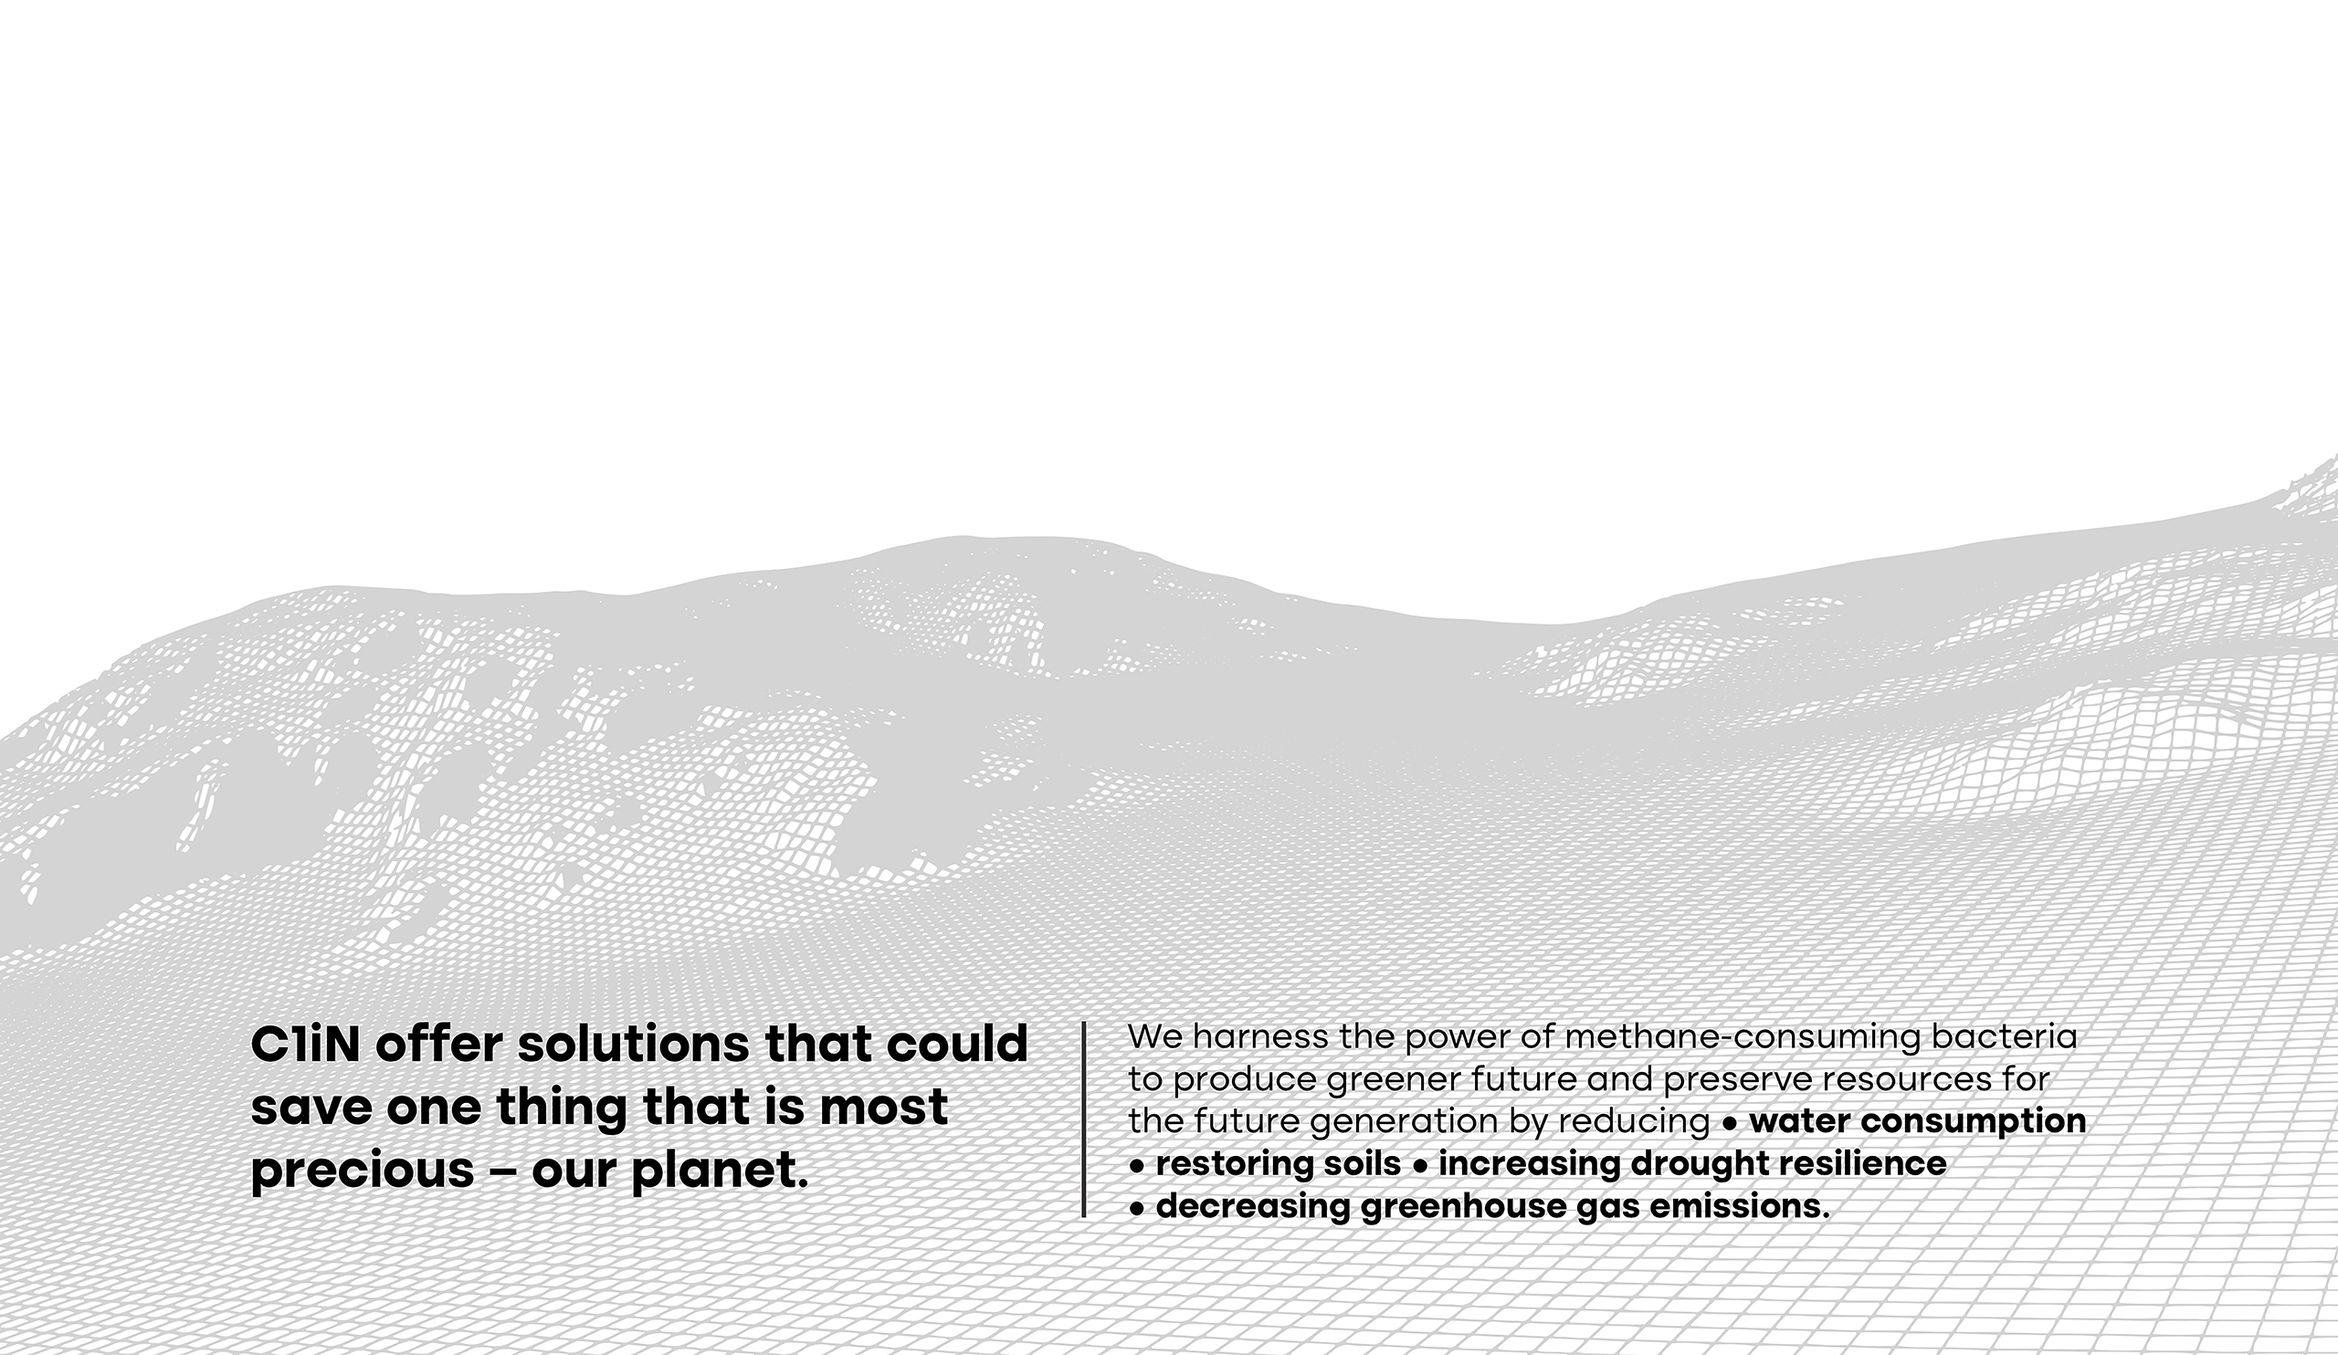
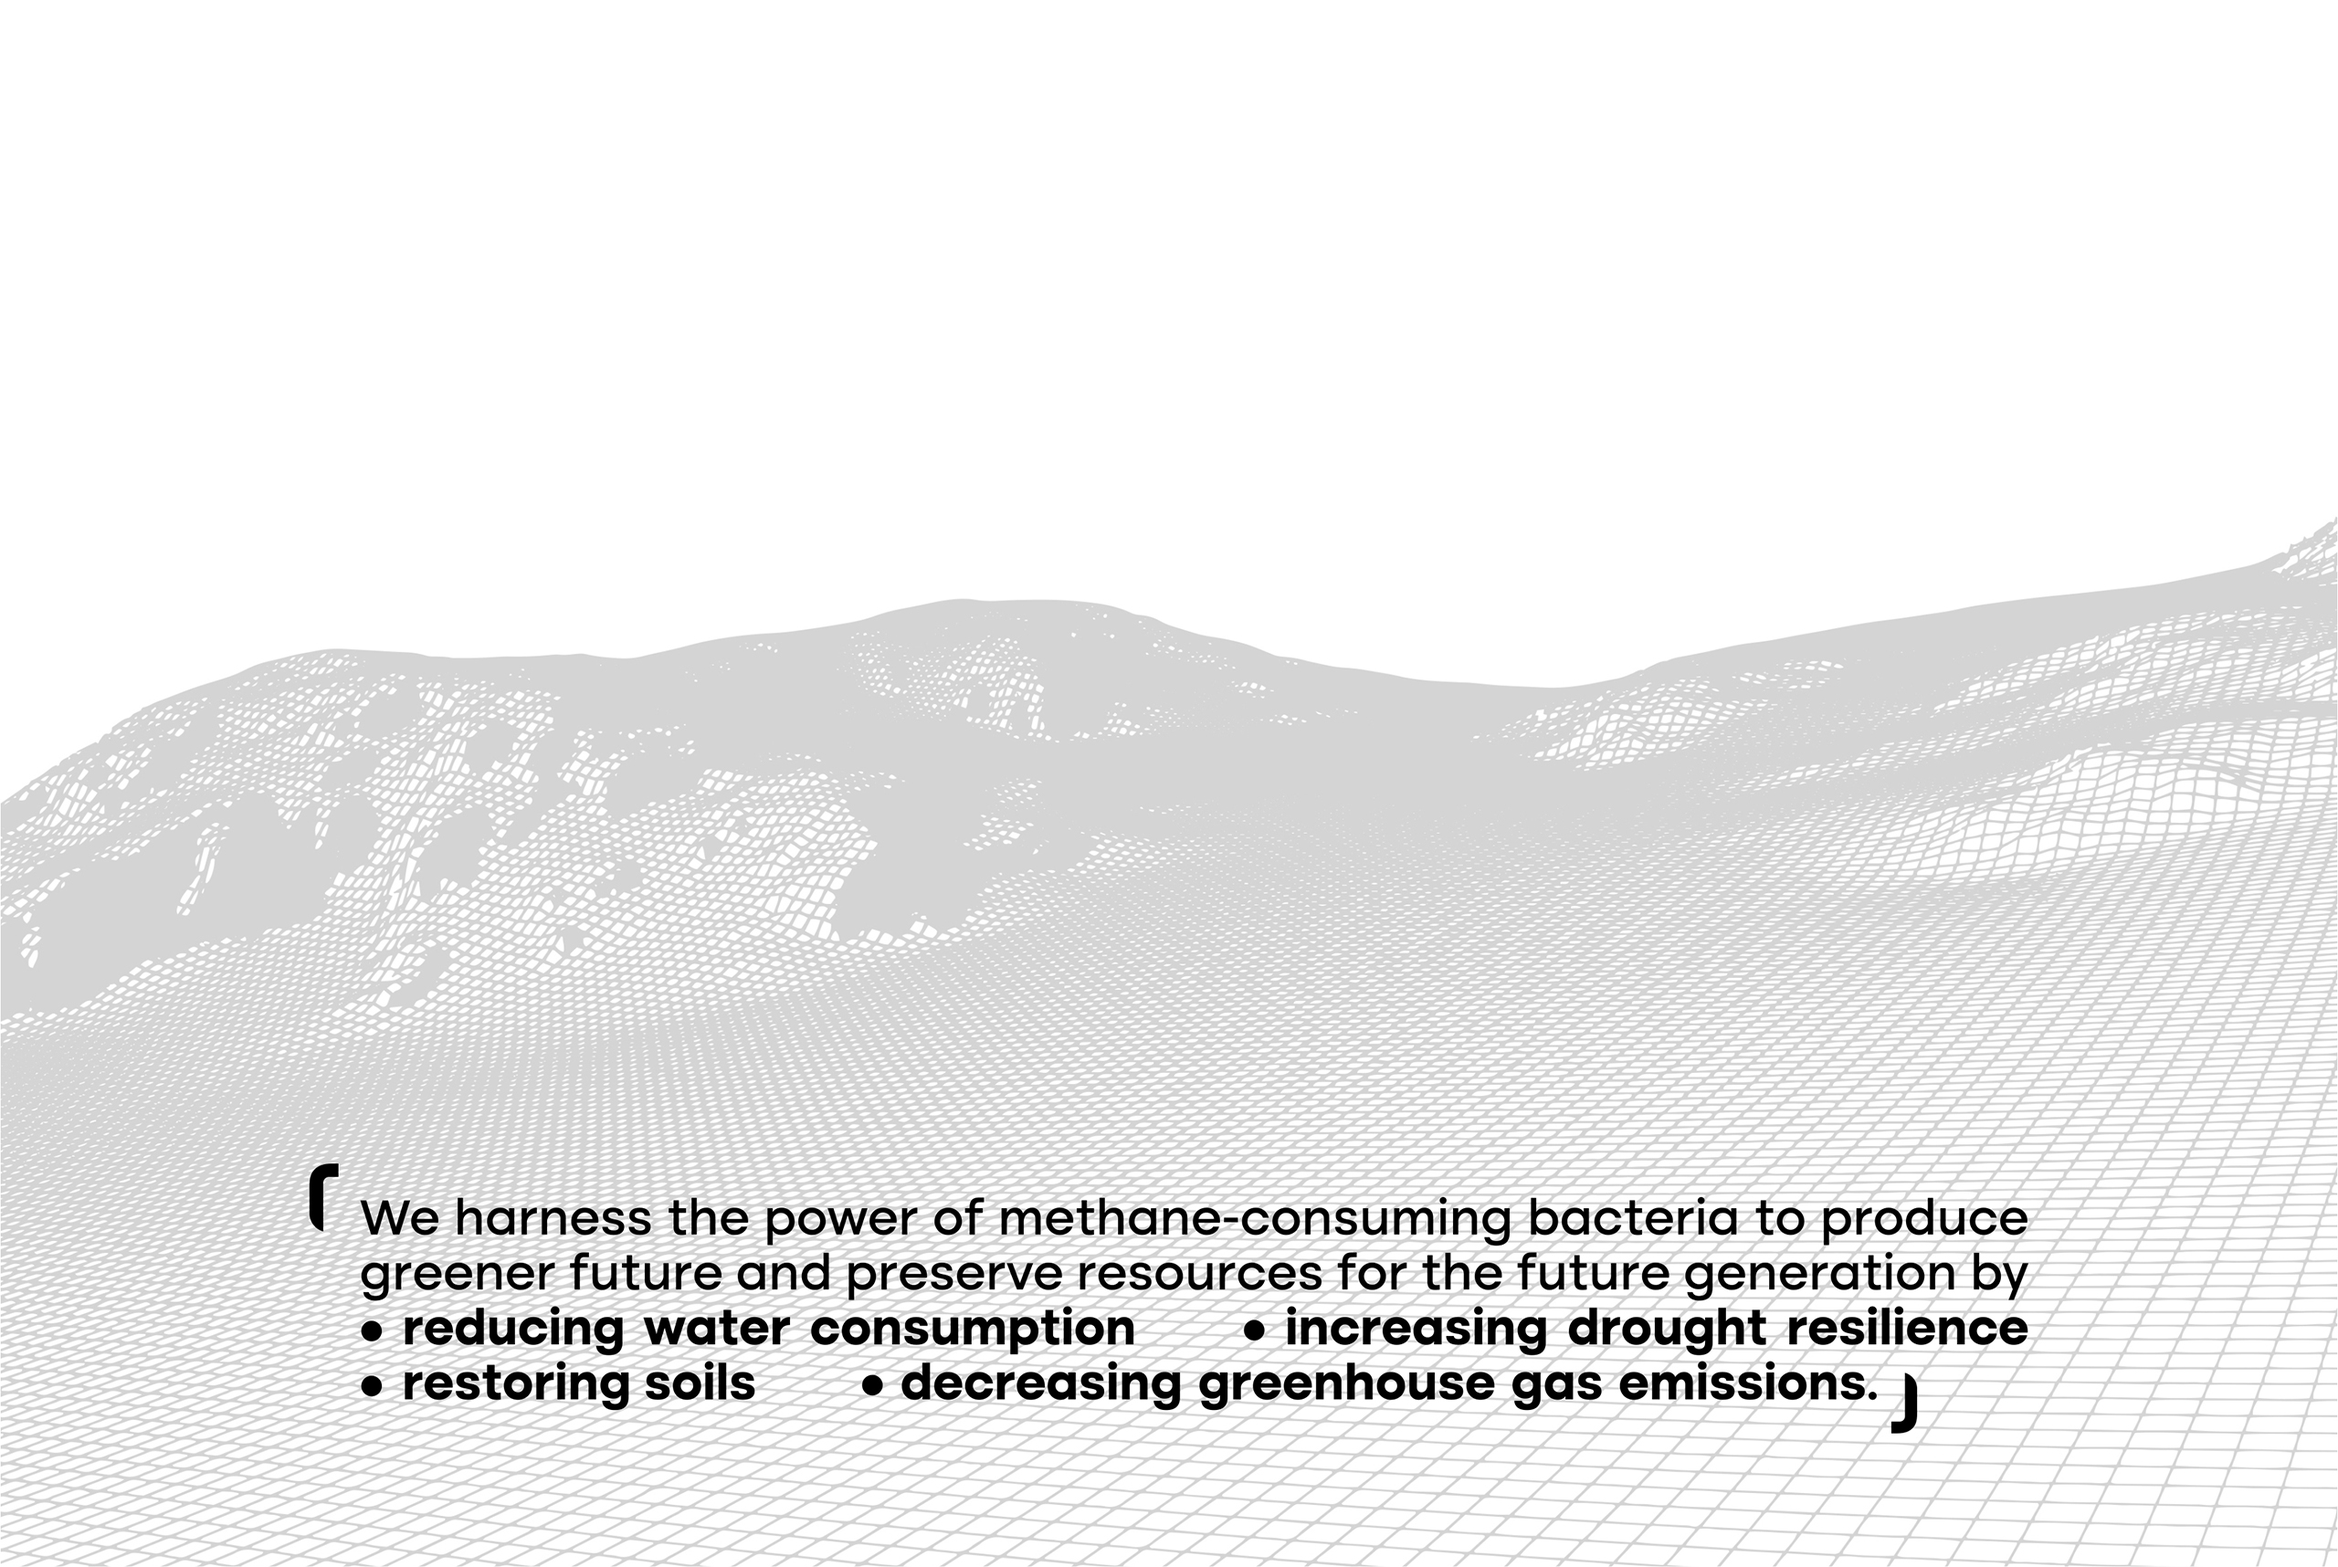
add baners

Changed region(s): [[0.0, 0.341, 1.0, 1.0]]

diff --git a/pages/index.vue b/pages/index.vue
@@ -3,106 +3,116 @@
     <section id="hero">
       <!-- Банер  -->
       <div class="desktop-hero">
-        <img src="/assets/images/baner-home.jpg" alt="Hero Image" class="hero-image">
+        <img src="/assets/images/baner-home.jpg" alt="We harness the power of methane-consuming bacteria to produce
+greener future and preserve resources for the future generation by
+reducing water consumption
+increasing drought resilience
+restoring soils
+decreasing greenhouse gas emissions." class="hero-image">
         <div class="banner-content">
           <h1 class="banner-title">
             Saving resources for you <br />
             and the future of the planet
           </h1>
           <p class="banner-subtitle">
-            C1iN: greener future on the intersection of nature and science
+            C1iN: solutions saving one thing that is most precious – our planet.
           </p>
           <NuxtLink to="/product" class="btn banner-btn">Try C1iN Enhancer</NuxtLink>
         </div>
       </div>
     </section>
 <!-- Банер  -->
-<h2 class="text-center">var 1</h2>
+
 <!-- Карусель -->
 <div class="conainer1">
-<div id="carouselExampleIndicators" class="carousel slide" data-bs-ride="carousel">
-  <div class="carousel-indicators">
-    <button type="button" data-bs-target="#carouselExampleIndicators" data-bs-slide-to="0" class="active" aria-current="true" aria-label="Slide 1"></button>
-    <button type="button" data-bs-target="#carouselExampleIndicators" data-bs-slide-to="1" aria-label="Slide 2"></button>
-    <button type="button" data-bs-target="#carouselExampleIndicators" data-bs-slide-to="2" aria-label="Slide 3"></button>
-  </div>
-  <div class="carousel-inner">
-    <div class="carousel-item active">
-      <img src="/assets/images/1.jpg" class="d-block w-100" alt="...">
-    </div>
-    <div class="carousel-item">
-      <img src="/assets/images/2.jpg" class="d-block w-100" alt="...">
-    </div>
-    <div class="carousel-item">
-      <img src="/assets/images/3.jpg" class="d-block w-100" alt="...">
-    </div>
-  </div>
-  <button class="carousel-control-prev" type="button" data-bs-target="#carouselExampleIndicators" data-bs-slide="prev">
-    <span class="carousel-control-prev-icon" aria-hidden="true"></span>
-    <span class="visually-hidden">Previous</span>
-  </button>
-  <button class="carousel-control-next" type="button" data-bs-target="#carouselExampleIndicators" data-bs-slide="next">
-    <span class="carousel-control-next-icon" aria-hidden="true"></span>
-    <span class="visually-hidden">Next</span>
-  </button>
-</div>
-</div>
-<!-- Карусель -->
-
-
-
-<h2 class="text-center">var 2</h2>
-<!-- Карусель 2 -->
-<div class="custom-carousel-container">
-  <!-- Основная карусель -->
-  <div id="customCarousel" class="carousel slide" data-bs-ride="carousel">
+  <div id="carouselExampleIndicators" class="carousel slide" data-bs-ride="carousel">
     <div class="carousel-indicators">
-      <button type="button" data-bs-target="#customCarousel" data-bs-slide-to="0" class="active" aria-current="true" aria-label="Slide 1"></button>
-      <button type="button" data-bs-target="#customCarousel" data-bs-slide-to="1" aria-label="Slide 2"></button>
-      <button type="button" data-bs-target="#customCarousel" data-bs-slide-to="2" aria-label="Slide 3"></button>
+      <button type="button" data-bs-target="#carouselExampleIndicators" data-bs-slide-to="0" class="active" aria-current="true" aria-label="Slide 1"></button>
+      <button type="button" data-bs-target="#carouselExampleIndicators" data-bs-slide-to="1" aria-label="Slide 2"></button>
+      <button type="button" data-bs-target="#carouselExampleIndicators" data-bs-slide-to="2" aria-label="Slide 3"></button>
+      <button type="button" data-bs-target="#carouselExampleIndicators" data-bs-slide-to="3" aria-label="Slide 4"></button> <!-- Добавлен 4-й индикатор -->
     </div>
+
     <div class="carousel-inner">
       <div class="carousel-item active">
-        <img src="/assets/images/1.jpg" class="d-block w-100 custom-carousel-img" alt="...">
+        <img src="/assets/images/1.jpg" class="d-block w-100" alt="...">
+        <div class="carousel-caption d-none d-md-block text-start">
+          <h5 class="general-text">Golf Courses</h5>
+          <p class="minor-text">helps golf courses maintain pristine, championship-level turf while cutting down on water and fertilizer use.</p>
+        </div>
       </div>
       <div class="carousel-item">
-        <img src="/assets/images/2.jpg" class="d-block w-100 custom-carousel-img" alt="...">
+        <img src="/assets/images/2.jpg" class="d-block w-100" alt="...">
+        <div class="carousel-caption d-none d-md-block text-start">
+          <h5 class="general-text">Agriculture</h5>
+          <p class="minor-text">integrates seamlessly into farming practices, supporting crop growth in nutrient-limited and arid soils, decreasing water and fertilizer consumption.</p>
+        </div>
       </div>
       <div class="carousel-item">
-        <img src="/assets/images/3.jpg" class="d-block w-100 custom-carousel-img" alt="...">
+        <img src="/assets/images/3.jpg" class="d-block w-100" alt="...">
+        <div class="carousel-caption d-none d-md-block text-start">
+          <h5 class="general-text">Gardens</h5>
+          <p class="minor-text">can be used in home gardens to promote stronger, more resilient plants. It is mixed into the soil or added to watering systems for optimal absorption.</p>
+        </div>
+      </div>
+      <div class="carousel-item">
+        <img src="/assets/images/4.jpg" class="d-block w-100" alt="...">
+        <div class="carousel-caption d-none d-md-block text-start">
+          <h5 class="general-text">Landscaping</h5>
+          <p class="minor-text">Ideal for public parks, corporate landscapes, green roofs, and residential green spaces, enhancing plant vitality while reducing maintenance costs.</p>
+        </div>
       </div>
     </div>
-    <button class="carousel-control-prev" type="button" data-bs-target="#customCarousel" data-bs-slide="prev">
+
+    <button class="carousel-control-prev" type="button" data-bs-target="#carouselExampleIndicators" data-bs-slide="prev">
       <span class="carousel-control-prev-icon" aria-hidden="true"></span>
       <span class="visually-hidden">Previous</span>
     </button>
-    <button class="carousel-control-next" type="button" data-bs-target="#customCarousel" data-bs-slide="next">
+    <button class="carousel-control-next" type="button" data-bs-target="#carouselExampleIndicators" data-bs-slide="next">
       <span class="carousel-control-next-icon" aria-hidden="true"></span>
       <span class="visually-hidden">Next</span>
     </button>
   </div>
-
-  <!-- Галерея миниатюр -->
-  <div class="custom-thumbnail-gallery mt-4">
-    <div class="row">
-      <div class="col-4">
-        <img src="/assets/images/1.jpg" class="img-thumbnail custom-gallery-img" data-bs-target="#customCarousel" data-bs-slide-to="0" alt="...">
+</div>
+<!-- Карусель -->
+ <!-- банер 2  -->
+<section id="hero">
+      <div class="desktop-hero">
+        <img src="/assets/images/baner-2.jpg" alt="Nature-inspired, science-grounded: Backed by 10 + Years  of Research.  C1iN is built on over a decade of research at San Diego State University, where scientists studied how desert soil microbes naturally support plant growth. Key findings include: Adding methane-consuming bacteria  enhances soil and plant health.  Plants in arid environments use methane  (CH₄) for water and energy recovery Methane consumption in dry soils 
+increases when vegetation is present." class="hero-image">
       </div>
-      <div class="col-4">
-        <img src="/assets/images/2.jpg" class="img-thumbnail custom-gallery-img" data-bs-target="#customCarousel" data-bs-slide-to="1" alt="...">
-      </div>
-      <div class="col-4">
-        <img src="/assets/images/3.jpg" class="img-thumbnail custom-gallery-img" data-bs-target="#customCarousel" data-bs-slide-to="2" alt="...">
-      </div>
+    </section>
+ <!-- банер 2  -->
+ <!-- банер 3  -->
+ <section id="hero">
+      <div class="desktop-hero">
+        <img src="/assets/images/baner-3.jpg" alt="Common Landscape
+Vegetation Vegetation with
+ClIN Enhancer Application" class="hero-image"> </div>
+    </section>
+ <!-- банер 3  -->
+ <!-- банер 4  -->
+ <div class="container py-5">
+    <div class="green-baner text-white text-center d-flex flex-column justify-content-center align-items-center rounded-4  px-md-5">
+      <p class="lead custom-text mb-4">
+        These discoveries led to the development of <strong class="fw-bold">C1iN</strong>, a biofertilizer that harnesses these naturally occurring
+        microbes to improve drought resilience, boost soil fertility, and reduce water and fertilizer needs.
+        Ongoing research continues to refine the <strong class="fw-bold">ideal microbial blend</strong> for maximum plant benefits.
+        <strong class="fw-bold">The result? A groundbreaking, science-backed way to grow stronger, healthier plants—naturally!</strong>
+      </p>
+      <NuxtLink to="/product" class="btn banner-btn1 fw-bold  rounded-pill">
+        Learn more about
+      </NuxtLink>
     </div>
   </div>
-</div>
-
-<!-- Карусель 2 -->
-
-
-
-
+ <!-- банер 4  -->
+ <!-- банер 5  -->
+  
+ <section id="hero">
+      <div class="desktop-hero">
+        <img src="/assets/images/baner-5.jpg" alt="" class="hero-image"> </div>
+    </section>
+ <!-- банер 5  -->
 
 
   </div>
@@ -128,6 +138,68 @@ onMounted(() => {
 
 
 <style scoped>
+/* Банер 4 */
+.green-baner {
+  background-color: #5a912d;
+  color: #ffffff;
+  min-height: 300px;
+  padding: 2rem 1rem; /* Универсальные вертикальные и горизонтальные отступы */
+  text-align: center;
+  display: flex;
+  flex-direction: column;
+  justify-content: center;
+  align-items: center;
+  border-radius: 1rem;
+}
+
+.custom-text {
+  font-size: clamp(1rem, 2.5vw, 1.5rem);
+  line-height: 1.6;
+  max-width: 1000px;
+  margin-left: auto;
+  margin-right: auto;
+  margin-bottom: 1.5rem;
+  padding-left: 1rem;
+  padding-right: 1rem;
+}
+
+.banner-btn1 {
+  font-family: 'Plus Jakarta Sans', sans-serif;
+  font-weight: 600;
+  font-size: clamp(14px, 2vw, 18px);
+  background-color: #000000;
+  color: #fff;
+  padding: 17px 55px;
+  border-radius: 25px;
+  text-decoration: none;
+  transition: background-color 0.3s;
+  max-width: 100%;
+  white-space: nowrap;
+}
+
+
+
+/* Дополнительный отступ внутри контейнера на маленьких экранах */
+@media (max-width: 768px) {
+  .green-baner {
+    padding-top: 3rem;
+    padding-bottom: 3rem;
+  }
+}
+
+
+
+/* Банер 4 */
+.general-text {
+  font-size: clamp(22px, 5vw, 46px);
+  font-weight: bold;
+}
+
+.minor-text {
+  font-size: clamp(16px, 3.5vw, 30px);
+  font-weight: bold;
+}
+
 
 /* Основной контейнер баннера */
 .custom-container {
@@ -136,6 +208,7 @@ onMounted(() => {
   margin: 0 auto; /* Выравнивание по центру */
  /* Внутренние отступы по бокам */
 }
+
 
 #hero {
   position: relative;
@@ -174,15 +247,17 @@ onMounted(() => {
 .banner-btn {
   font-family: 'Plus Jakarta Sans', sans-serif;
   font-weight: 600;
-  font-size: 14px;
-  background-color: #000;
+  font-size: 18px;
+  background-color: #5a912d;
   color: #fff;
-  padding: 12px 24px;
-  border-radius: 25px;
+  padding: 17px 55px;
+  border-radius: 50px;
   text-decoration: none;
   display: inline-block;
   transition: background-color 0.3s;
 }
+
+
 
 .banner-btn:hover {
   background-color: #333;
